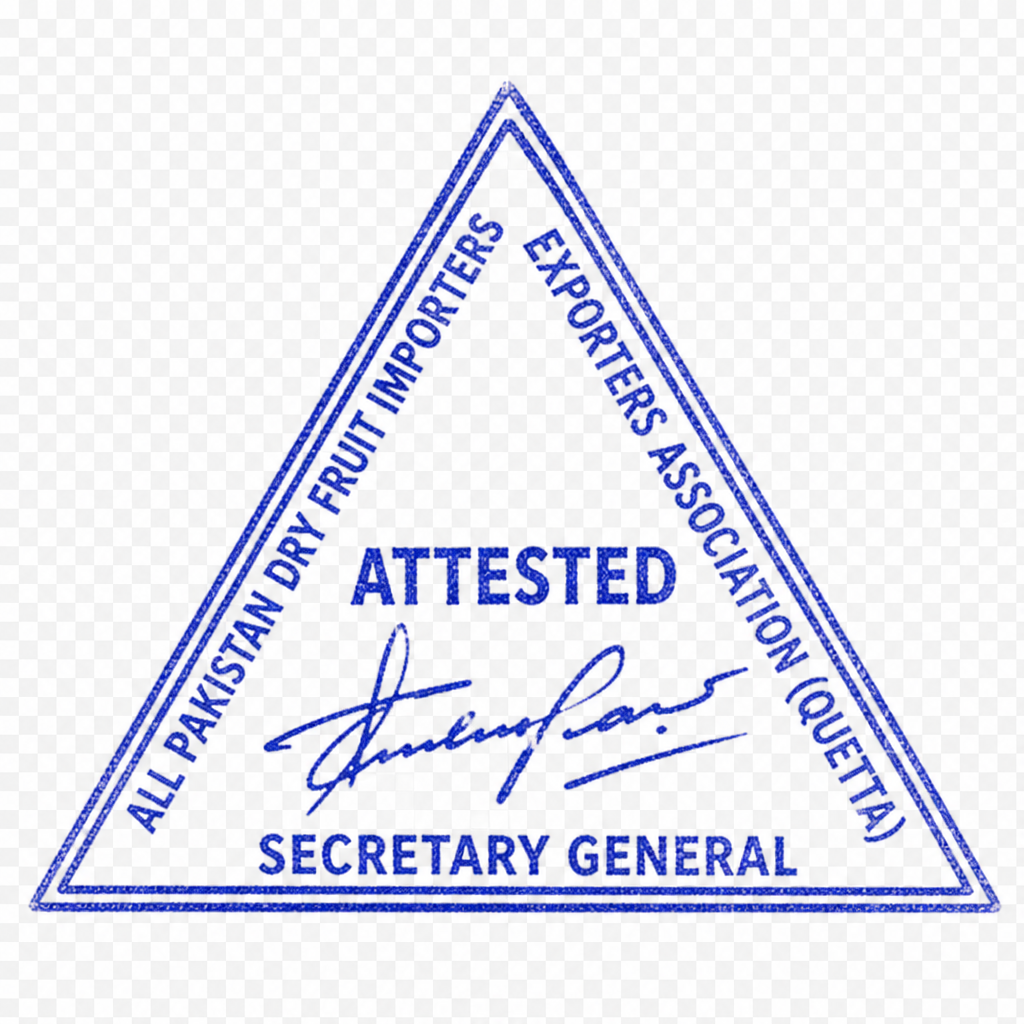
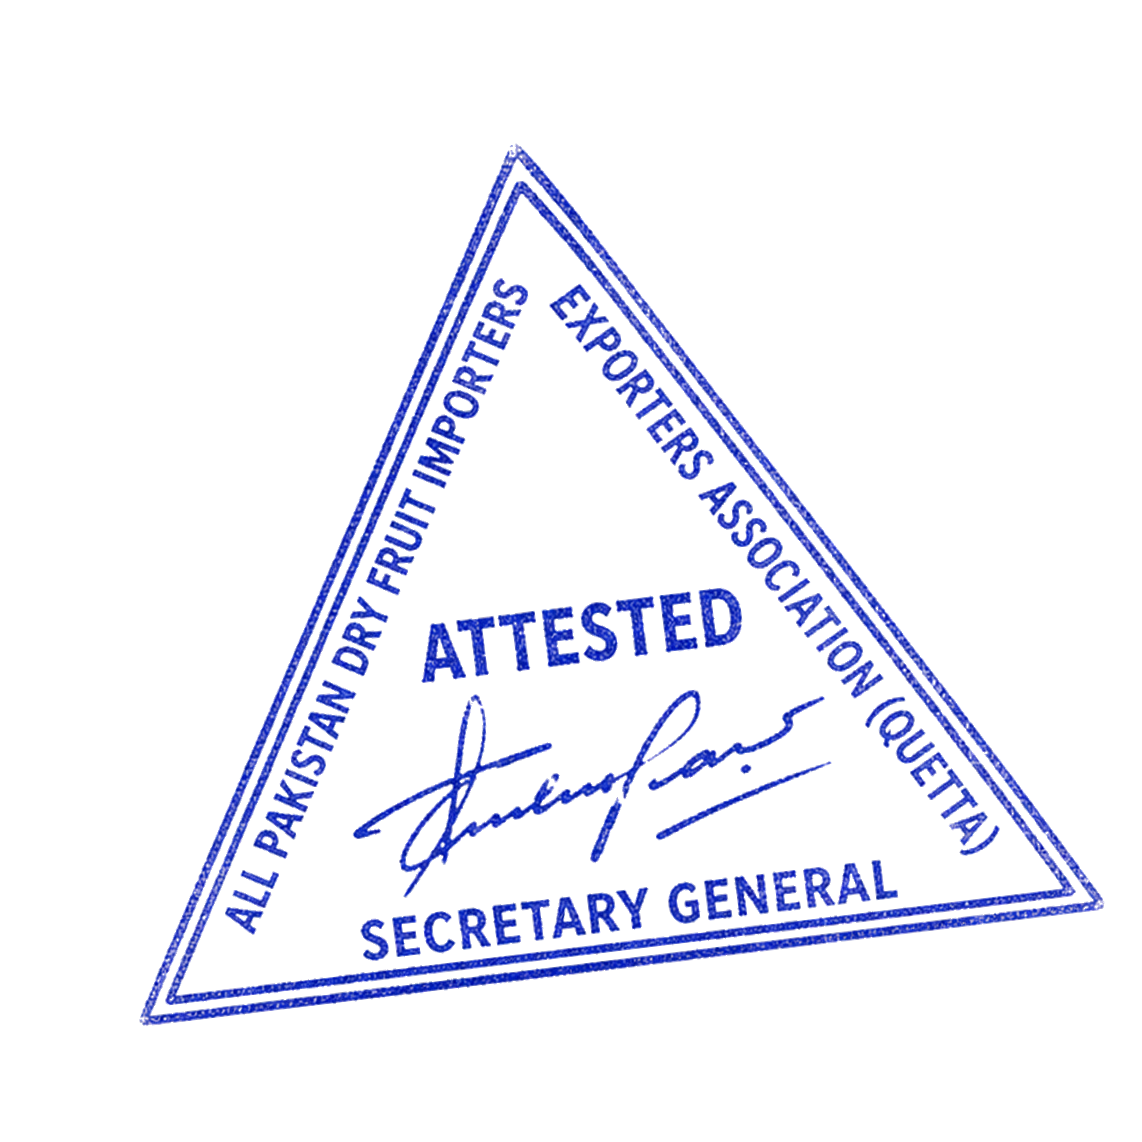
Print the original stamp sharp without CSS rotation blur.

Changed region(s): [[0.0312, 0.0625, 1.0, 0.9062]]

diff --git a/index.html b/index.html
@@ -244,11 +244,12 @@
       align-items: end; position: relative; z-index: 2; margin-top: auto;
     }
     .official {
-      position: absolute; right: 2mm; bottom: 11mm; width: 40mm;
+      position: absolute; right: 1mm; bottom: 10mm; width: 42mm;
       height: auto;
       opacity: 1;
-      transform: rotate(-7deg);
       pointer-events: none; z-index: 1;
+      -webkit-print-color-adjust: exact;
+      print-color-adjust: exact;
     }
 
     @media print {
@@ -262,7 +263,7 @@
         filter: none !important;
         mix-blend-mode: normal !important;
         opacity: 1 !important;
-        image-rendering: auto;
+        transform: none !important;
       }
     }
   </style>
@@ -425,7 +426,7 @@
             </div>
             <div class="foot-name">ALL PAKISTAN DRY FRUIT IMPORTERS &amp; EXPORTERS ASSOCIATION</div>
             <div class="cbody"><span>Certifying Body:</span><span class="body-ln"></span></div>
-            <img class="official" src="assets/apdiea-stamp.png" alt="Secretary General attested stamp" />
+            <img class="official" src="assets/apdiea-stamp.png?v=3" alt="Secretary General attested stamp" />
           </div>
         </section>
       </div>
